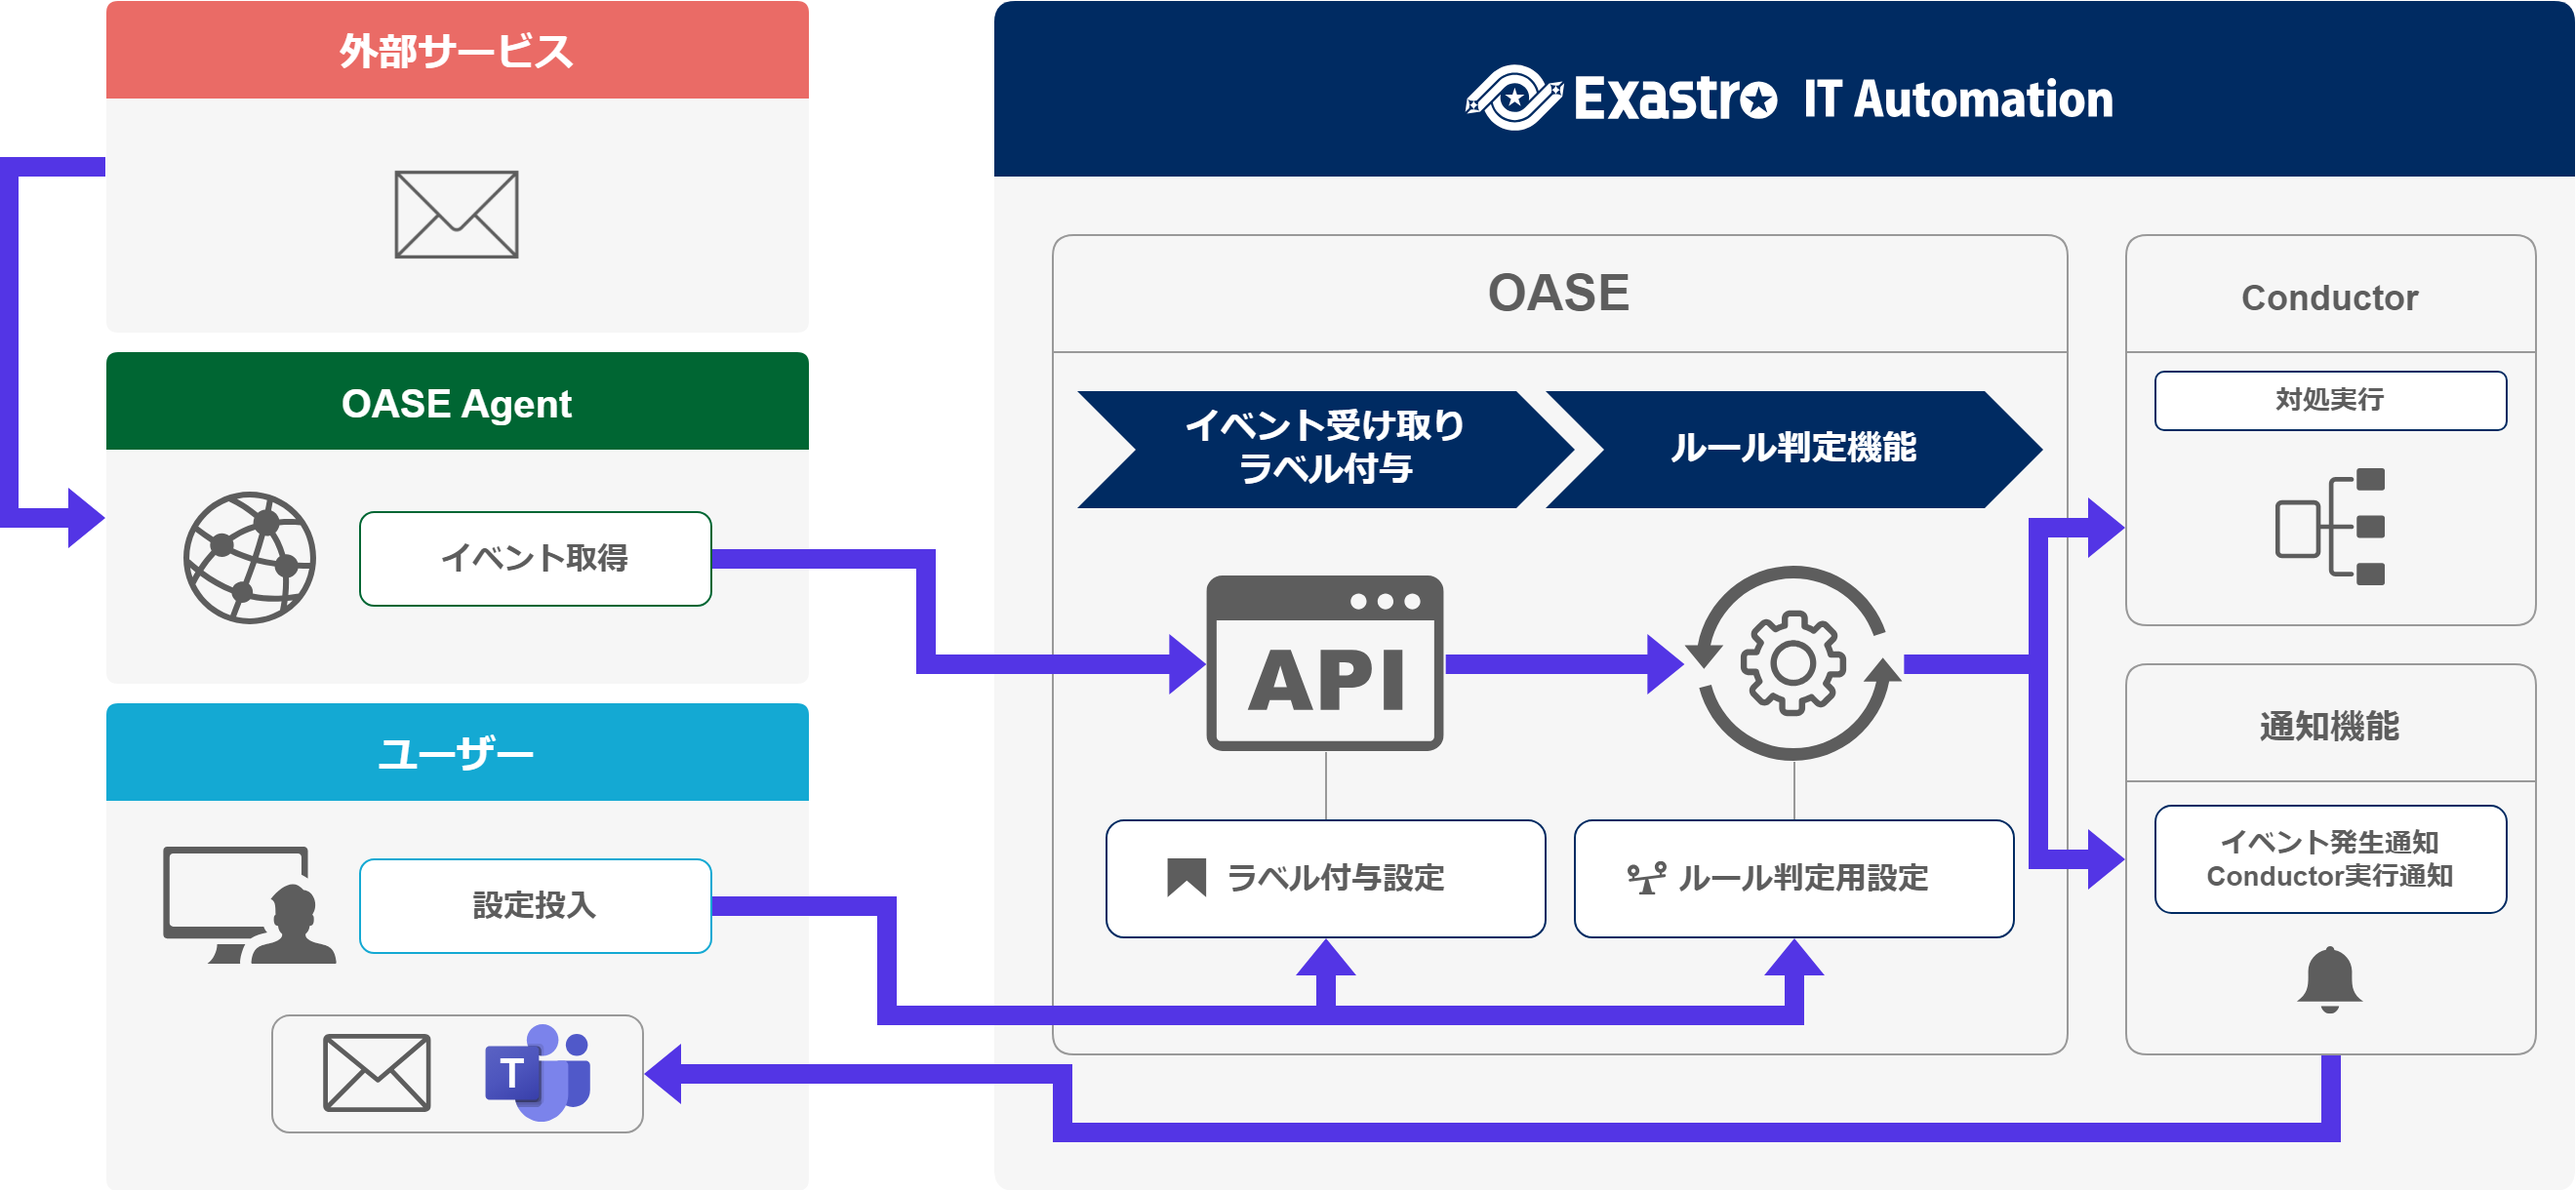
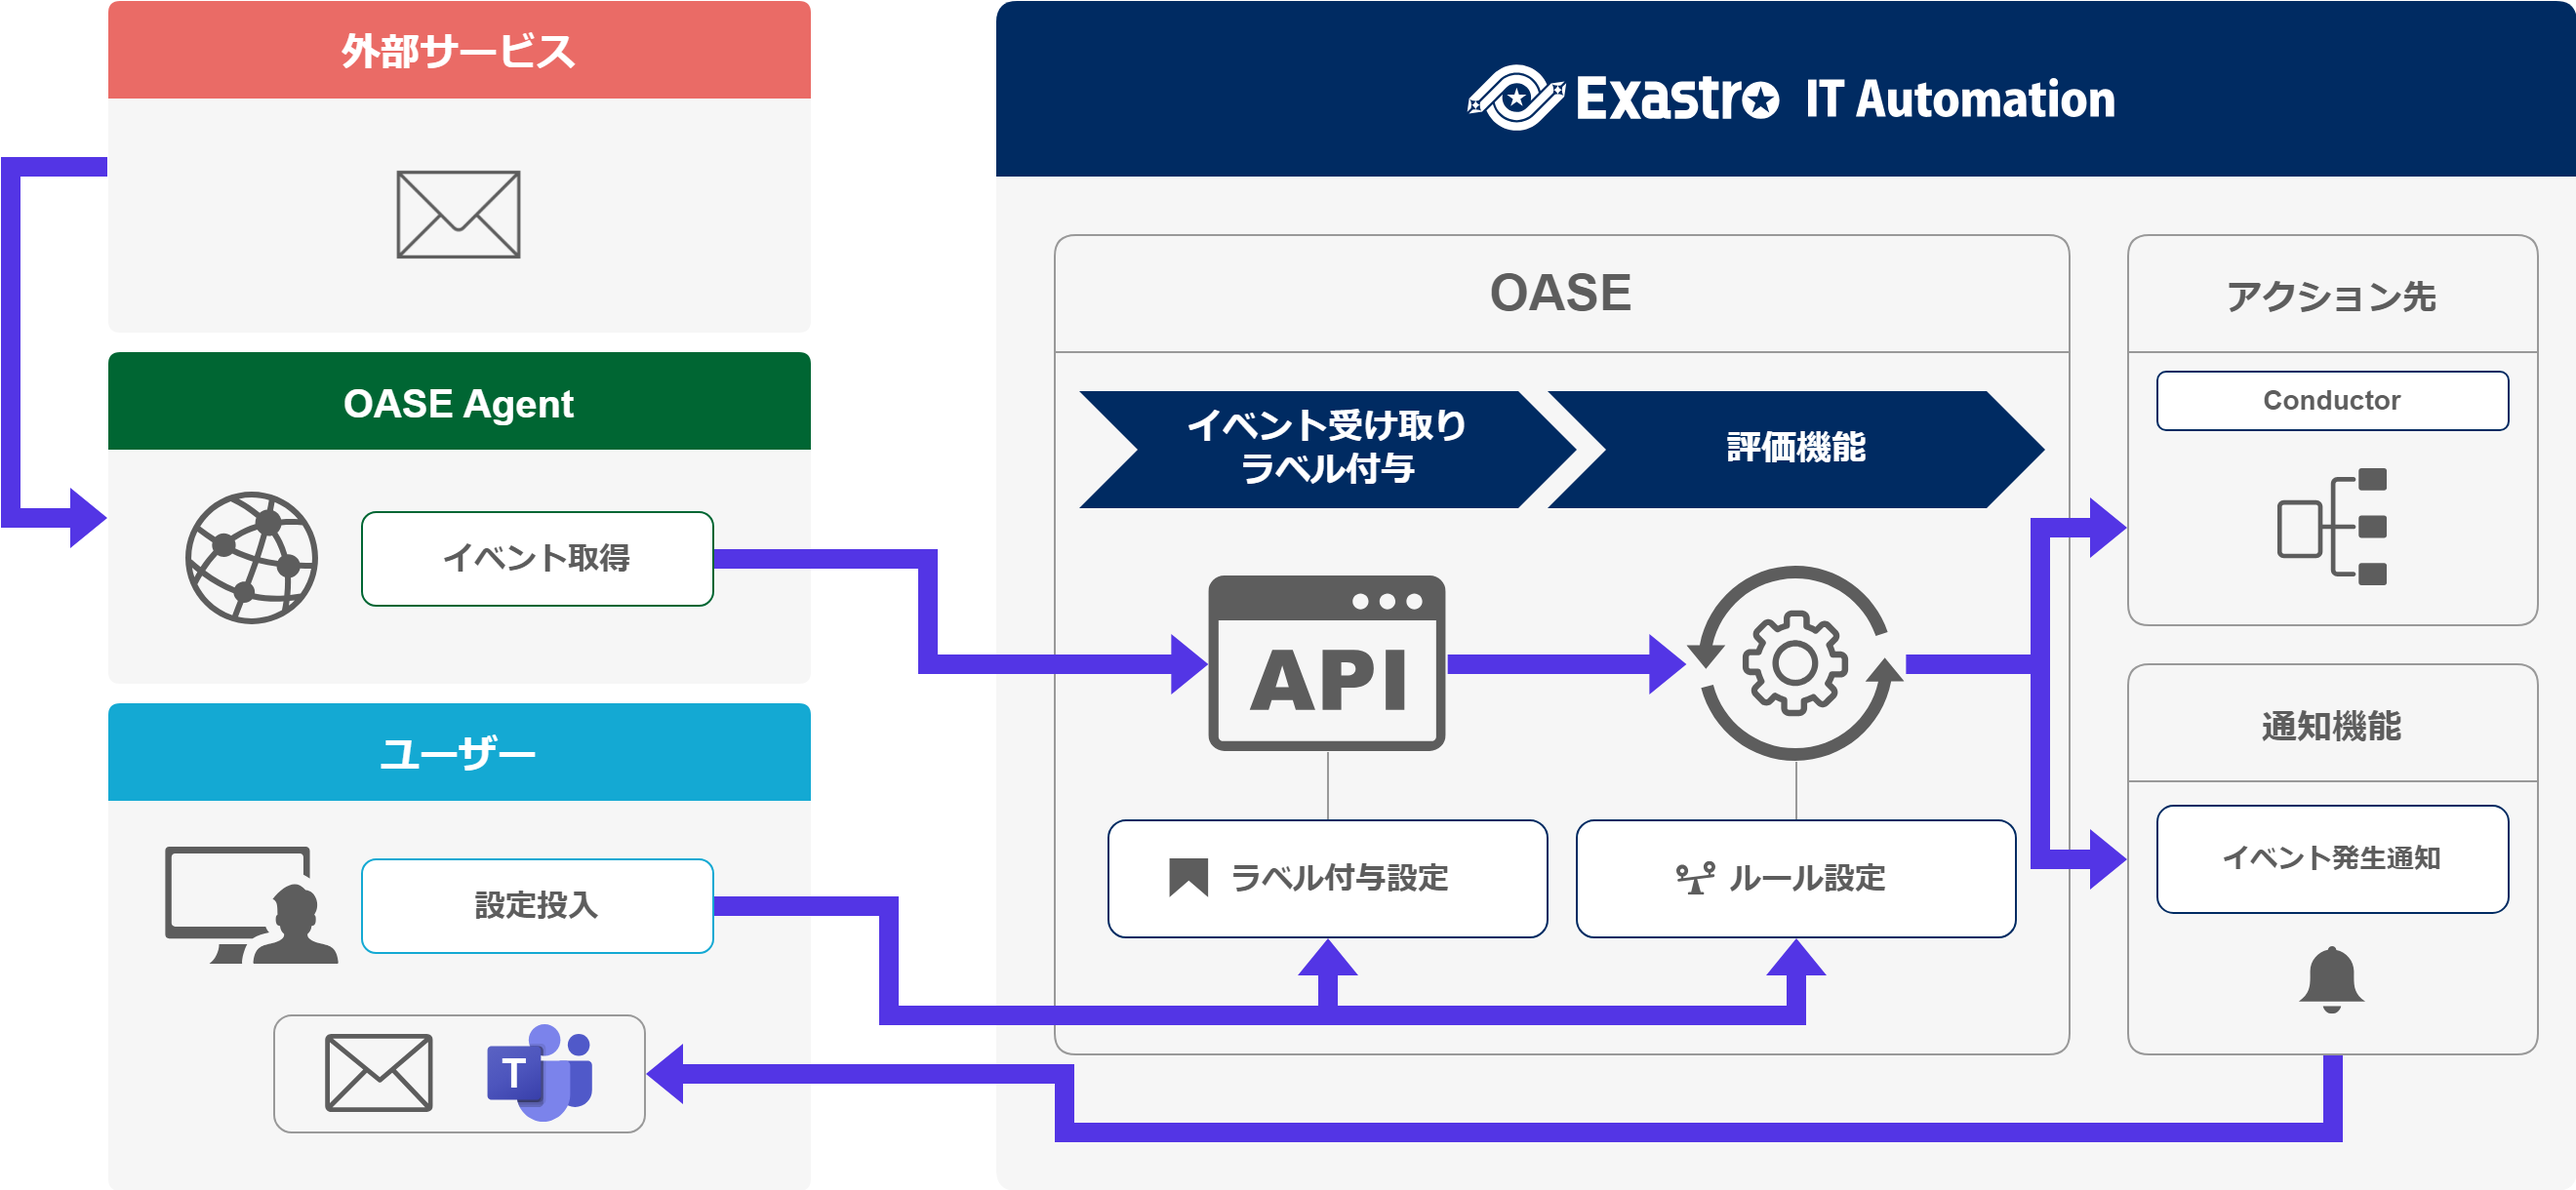
OASE機能概要等修正

diff --git a/src/ja/2.3/manuals/oase/oase_management.rst b/src/ja/2.3/manuals/oase/oase_management.rst
@@ -42,7 +42,7 @@ OASE管理 エージェント概要
 | エージェントは、Exastro IT Automation（以下、ITA）とは独立しており、ITA OASEと外部サービスの仲介役として機能します。
 | エージェントは、対象とする外部サービスのイベント収集設定をITAから取得し、その設定を用いて外部サービスからイベントを取得します。このプロセスを経て、取得したイベントをITAに送信します。
 
-.. figure:: /images/ja/oase/agent_overview_v2-3.png
+.. figure:: /images/ja/oase/oase_management/agent_overview_v2-3.png
    :width: 800px
    :alt: OASEエージェント概要
 
@@ -58,7 +58,7 @@ OASE管理 エージェント利用手順
 | エージェントを利用するための作業を含めた、OASEの作業フローは以下のとおりです。
 | エージェント利用のための作業の詳細は次項に記載しています。
 
-.. figure:: /images/ja/oase/oase_process_v2-3.png
+.. figure:: /images/ja/oase/oase_management/oase_process_v2-3.png
    :width: 700px
    :alt: OASE作業フロー
 
@@ -70,7 +70,7 @@ OASE管理 エージェント利用手順
 
    #. | **ラベル設定**
       | OASEのラベル作成/ラベル付与メニュー画面から、ラベル設定を登録します。
-      | 詳細は :ref:`label_creation` を参照してください。
+      | 詳細は :ref:`label_creation` および :ref:`labeling` を参照してください。
 
    #. | **エージェントのインストール・起動**
       | エージェントを起動し、イベント収集を開始します。

diff --git a/src/ja/2.3/manuals/oase/oase_common.rst b/src/ja/2.3/manuals/oase/oase_common.rst
@@ -27,7 +27,7 @@ OASE共通
    | ITAに送信されたイベントに対して、設定されたラベルを付与します。
    | ラベル付与に関する設定の詳細は :ref:`label_creation` および :ref:`labeling` を参照してください。
 
-#. | **ルール判定**
+#. | **評価**
    | 付与されたラベルを用いて、設定されたルールにマッチするかどうかの判定を行います。
    | ルール判定に関する設定の詳細は :ref:`filter` および :ref:`rule` を参照してください。
 

diff --git a/src/ja/2.3/installation/docker_compose.rst b/src/ja/2.3/installation/docker_compose.rst
@@ -308,7 +308,7 @@ Docker Compose
 オーガナイゼーションの作成
 ==========================
 
-| 再起動後に再度ログインをしたら、オーガナイゼーションの作成を行います。
+| オーガナイゼーションの作成を行います。
 | オーガナイゼーションの詳細については、 :doc:`../manuals/platform_management/organization` を参照してください。
 
 .. tip:: 
